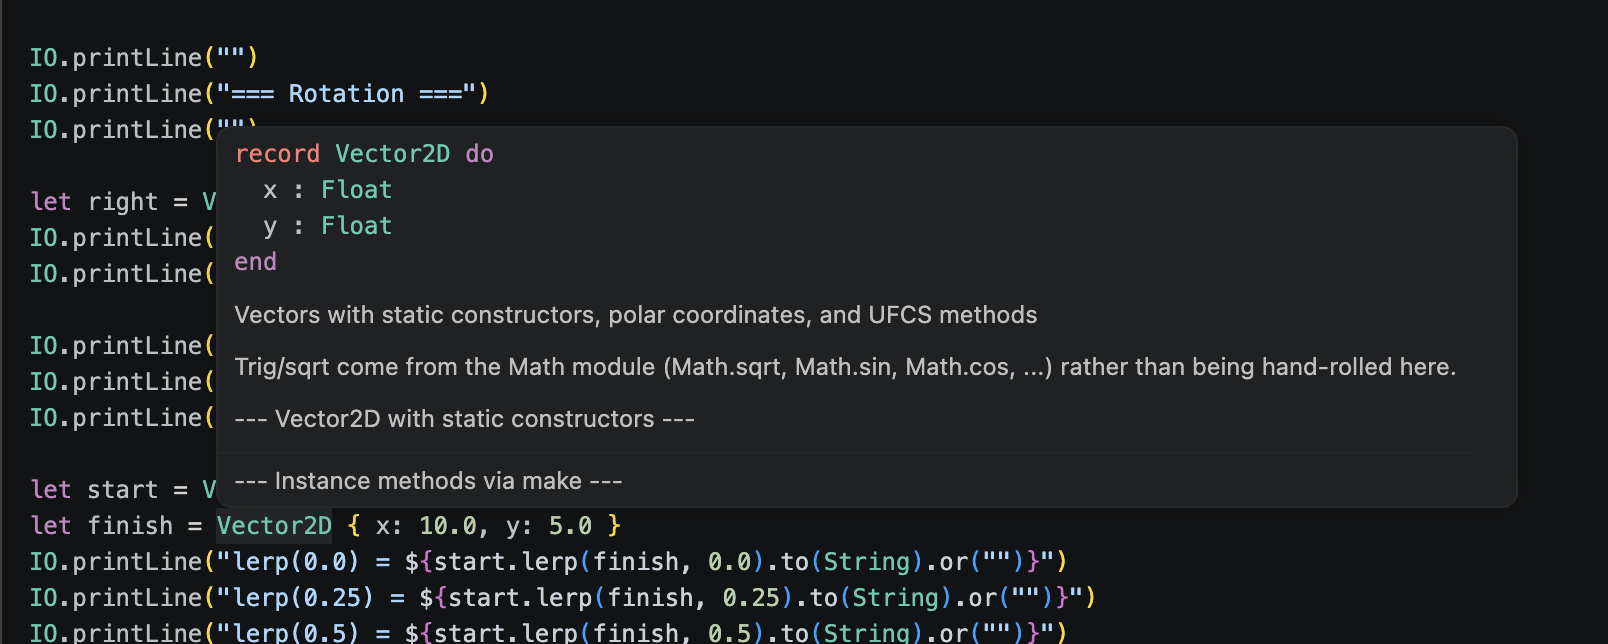
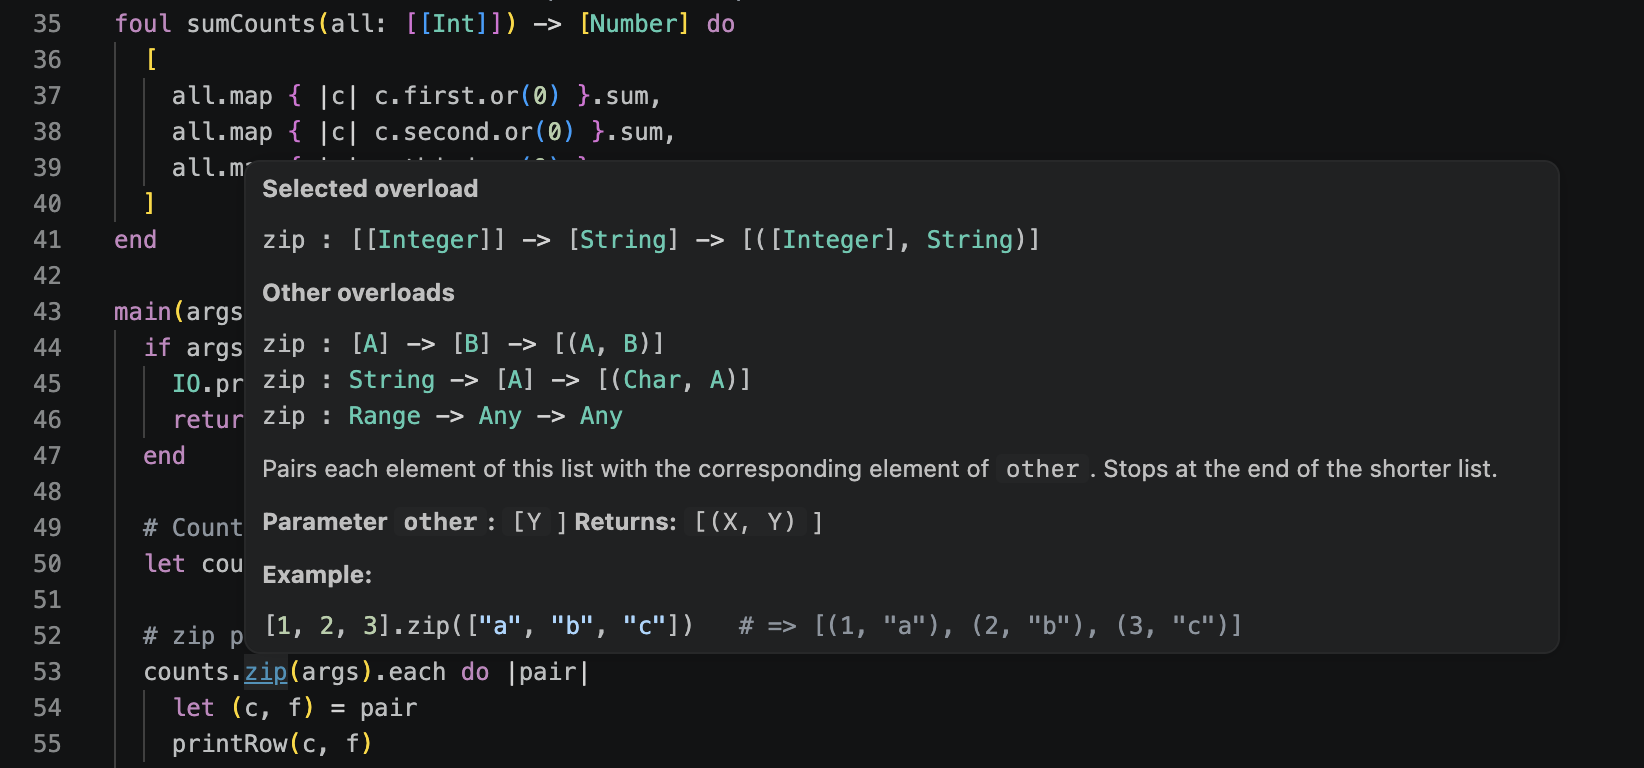
Update screenshots and description

diff --git a/editors/vscode/README.md b/editors/vscode/README.md
@@ -17,14 +17,15 @@ itself, running as a language server (`kex --lsp`), so hover types and
 diagnostics are the compiler's own answers rather than a separate model of the
 language that could drift from it.
 
-![Hover showing a record declaration and its documentation](https://github.com/kexhq/kex/raw/main/editors/vscode/images/hover.png)
+![Hover on an overloaded method, showing which overload was selected, the others available, and the documented example](https://github.com/kexhq/kex/raw/main/editors/vscode/images/hover.png)
 
-![Completion after a dot on a record value](https://github.com/kexhq/kex/raw/main/editors/vscode/images/completion.png)
+![Completion after a dot in a builder chain, listing each method with its full signature](https://github.com/kexhq/kex/raw/main/editors/vscode/images/completion.png)
 
 ## Features
 
 - **Type and declaration hover** — the declaration as written, plus any doc
-  comments above it.
+  comments above it. On an overloaded method it names the overload chosen at
+  that call site and lists the alternatives.
 - **Diagnostics as you type** — syntax, type, and validation errors on the
   unsaved buffer, not just on save.
 - **Completion** — members after `.`, and top-level names, with signatures and
